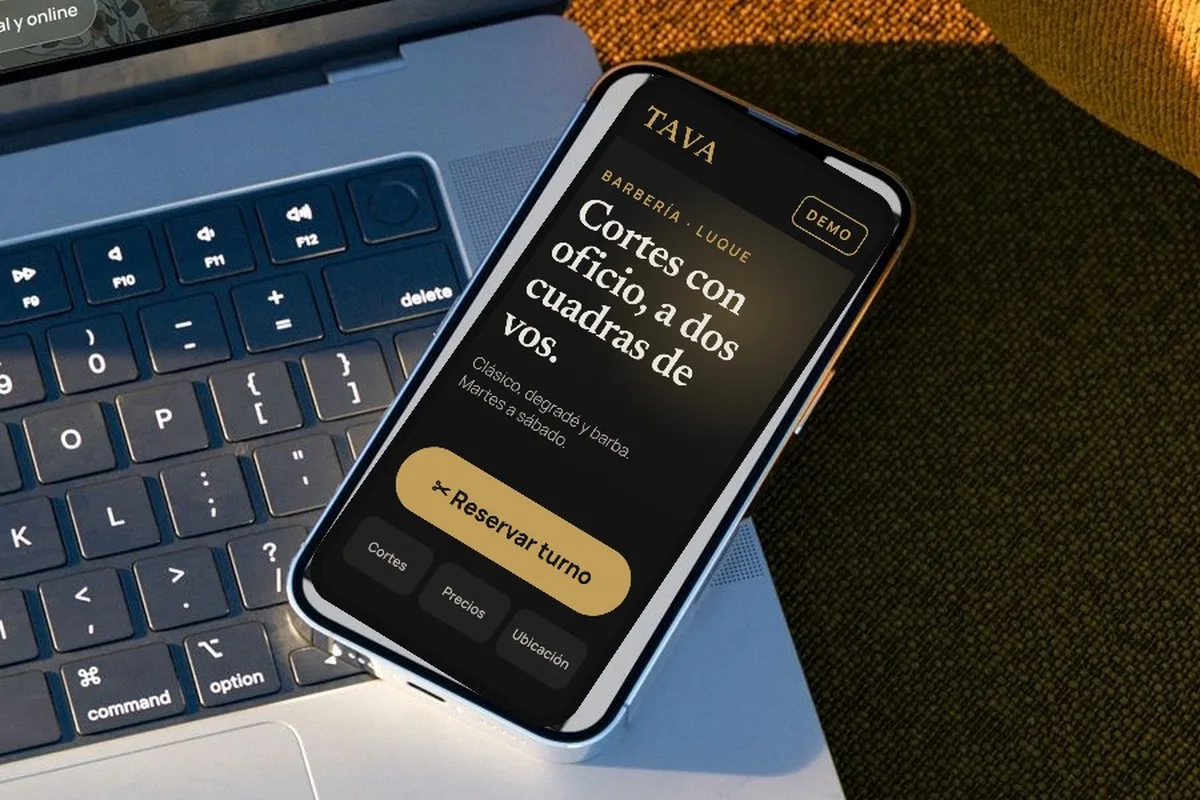
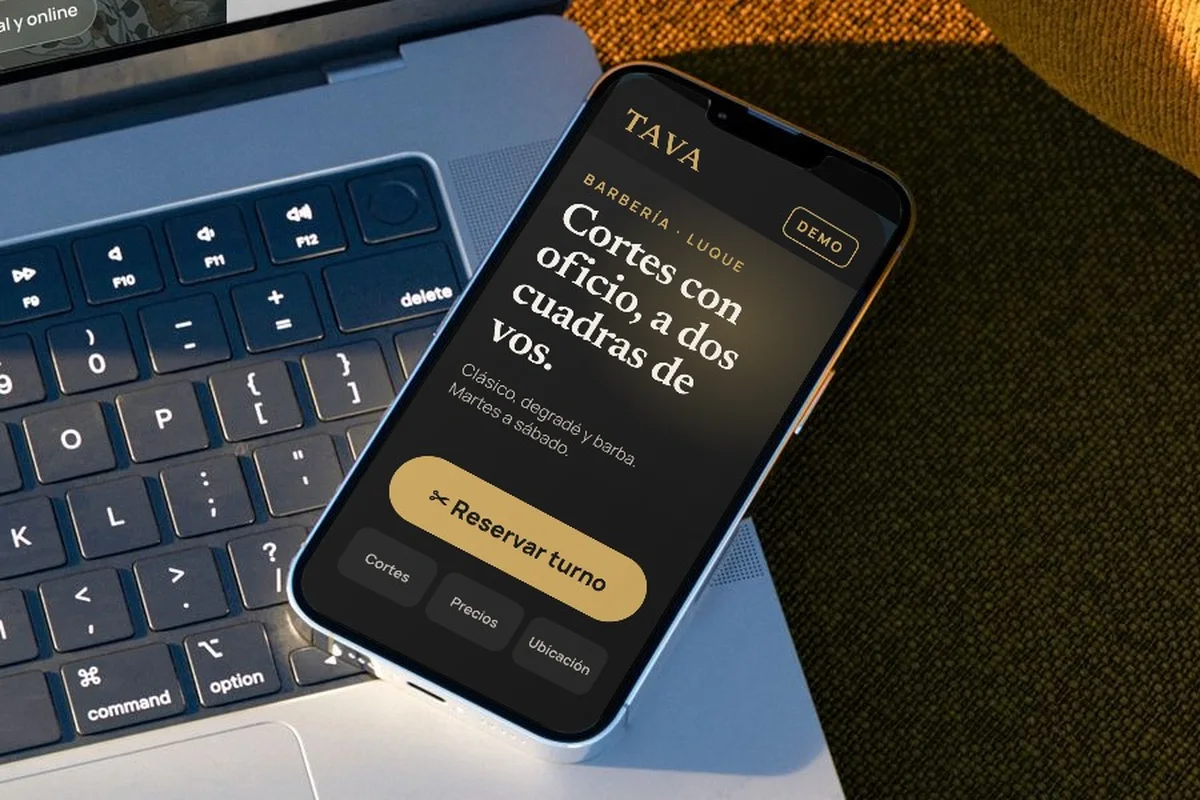
Pantalla del iPhone bien encajada

diff --git a/kits.html b/kits.html
@@ -17,9 +17,9 @@
   <link rel="preconnect" href="https://fonts.googleapis.com">
   <link rel="preconnect" href="https://fonts.gstatic.com" crossorigin>
   <link href="https://fonts.googleapis.com/css2?family=Bricolage+Grotesque:opsz,wght@12..96,400;12..96,500;12..96,600&family=Newsreader:ital,opsz,wght@0,6..72,400;0,6..72,500;1,6..72,400;1,6..72,500&family=Poppins:wght@600&display=swap" rel="stylesheet">
-  <link rel="stylesheet" href="estilo.css?v=2111d">
-  <link rel="stylesheet" href="tipografia.css?v=2111d">
-  <link rel="stylesheet" href="calma.css?v=2111d">
+  <link rel="stylesheet" href="estilo.css?v=2111e">
+  <link rel="stylesheet" href="tipografia.css?v=2111e">
+  <link rel="stylesheet" href="calma.css?v=2111e">
 
   <!-- Pixel de Meta (ID 1428355635968530) -->
   <script>
@@ -365,6 +365,6 @@
     </div>
   </dialog>
 
-  <script src="sitio.js?v=2111d"></script>
+  <script src="sitio.js?v=2111e"></script>
 </body>
 </html>
